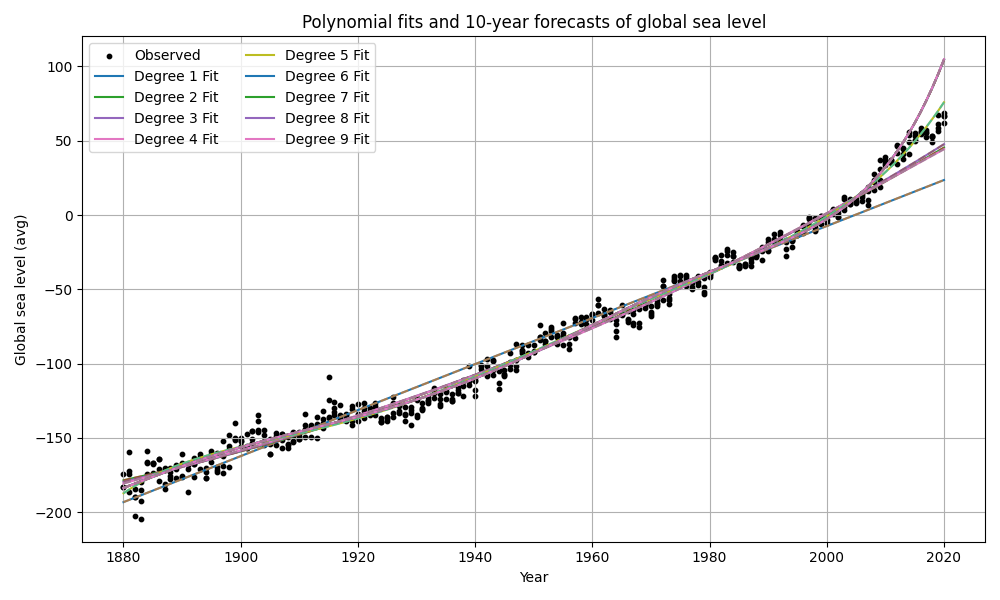
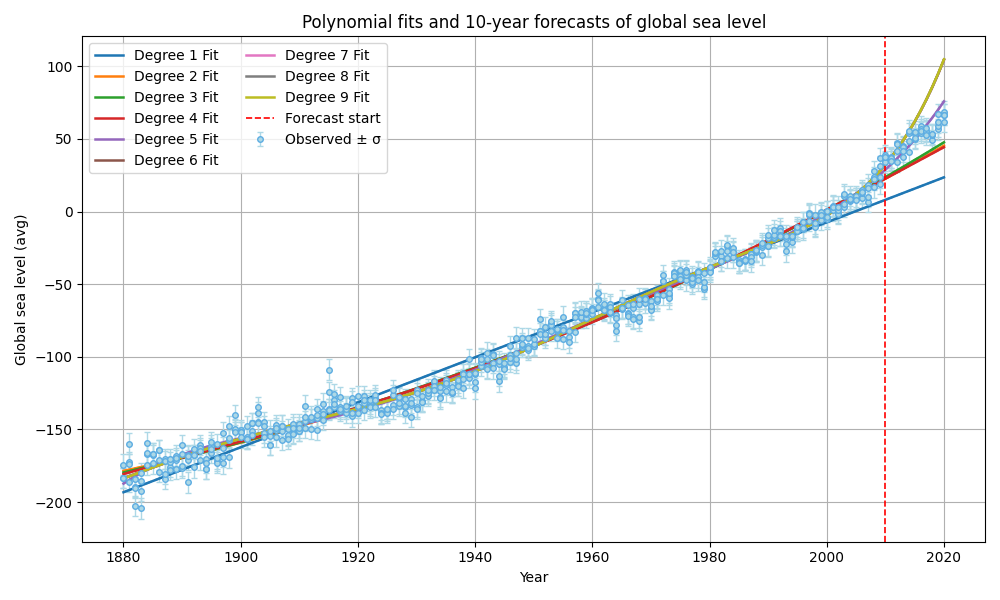
updated to plot the uncertainty intervals on data points

diff --git a/fitting_and_forecasting.py b/fitting_and_forecasting.py
@@ -45,24 +45,43 @@ def fit_and_plot(path='sea_level_data.csv', max_fit_year=2010):
     df_subset = df[df['Year'] <= max_fit_year]
 
     plt.figure(figsize=(10, 6))
-    # plot the original data
-    plt.scatter(df['Year'], df[sea_col], s=10, color='black', label='Observed')
+    # estimate observational uncertainty (sigma) from quadratic fit residuals on fit subset
+    if len(df_subset) >= 3:
+        quad_coeffs = np.polyfit(df_subset['Year'], df_subset[sea_col], 2)
+        quad_fit_subset = np.polyval(quad_coeffs, df_subset['Year'])
+        sigma = np.std(df_subset[sea_col] - quad_fit_subset)
+    else:
+        sigma = np.std(df[sea_col].values - np.mean(df[sea_col].values))
+
+    # plot the original data with uncertainty (error bars)
+    # plot observed points with light-blue markers and matching error bars
+    plt.errorbar(
+        df['Year'], df[sea_col], yerr=sigma, fmt='o', markersize=4,
+        ecolor='#ADD8E6', elinewidth=1, capsize=2,
+        color='#5DADE2', markerfacecolor='#ADD8E6', markeredgecolor='#5DADE2',
+        label='Observed ± σ'
+    )
 
     # fitting polynomials of degree 1..9
+    cmap = plt.get_cmap('tab10')
+    colors = [cmap(i % 10) for i in range(9)]
     for order in range(1, 10):
         coeffs = np.polyfit(df_subset['Year'], df_subset[sea_col], order)
         # evaluate fit on the full range for plotting
         years_full = np.arange(df['Year'].min(), 2021)
         fit_y = np.polyval(coeffs, years_full)
-        plt.plot(years_full, fit_y, label=f'Degree {order} Fit')
+        color = colors[order - 1]
+        plt.plot(years_full, fit_y, color=color, linewidth=1.8, label=f'Degree {order} Fit')
 
         # forecasting 10 years into the future (2011-2020)
-        future_years = np.arange(max_fit_year + 1, max_fit_year + 11)
-        all_years = np.concatenate((df['Year'].values, future_years))
-        # for forecast plotting evaluate on continuous future range
         future_full = np.arange(df['Year'].min(), max_fit_year + 11)
         future_fit_y = np.polyval(coeffs, future_full)
-        plt.plot(future_full, future_fit_y, '--', alpha=0.6)
+        plt.plot(future_full, future_fit_y, '--', color=color, alpha=0.7)
+
+    # mark the year where forecasting begins with a dashed vertical line
+    plt.axvline(max_fit_year, color='red', linestyle='--', linewidth=1.2, label='Forecast start')
+    # lightly shade the forecast region (next 10 years)
+    #plt.axvspan(max_fit_year + 0.01, max_fit_year + 10, color='red', alpha=0.06)
 
     plt.xlabel('Year')
     plt.ylabel(f'{sea_col}')
@@ -73,21 +92,6 @@ def fit_and_plot(path='sea_level_data.csv', max_fit_year=2010):
     plt.savefig('sea_level_fits_and_forecasts.png')
     plt.show()
 
-def plot_real_data(path='sea_level_data.csv'):
-    df, sea_col = load_and_prepare(path)
-
-    plt.figure(figsize=(10, 6))
-    # plot the original data
-    plt.scatter(df['Year'], df[sea_col], s=10, color='black', label='Observed')
-
-    plt.xlabel('Year')
-    plt.ylabel(f'{sea_col}')
-    plt.title('Observed Global Sea Level Data')
-    plt.legend()
-    plt.grid(True)
-    plt.tight_layout()
-    plt.savefig('sea_level_observed_data.png')
-    plt.show()
 
 # Model Testing (x**2 per degree of freedom)
 
@@ -132,7 +136,6 @@ def chi_square_testing(path='sea_level_data.csv', max_fit_year=2010):
 
 if __name__ == '__main__':
     fit_and_plot()
-    plot_real_data()
     chi_square_testing()
 
 #RESULTS:
